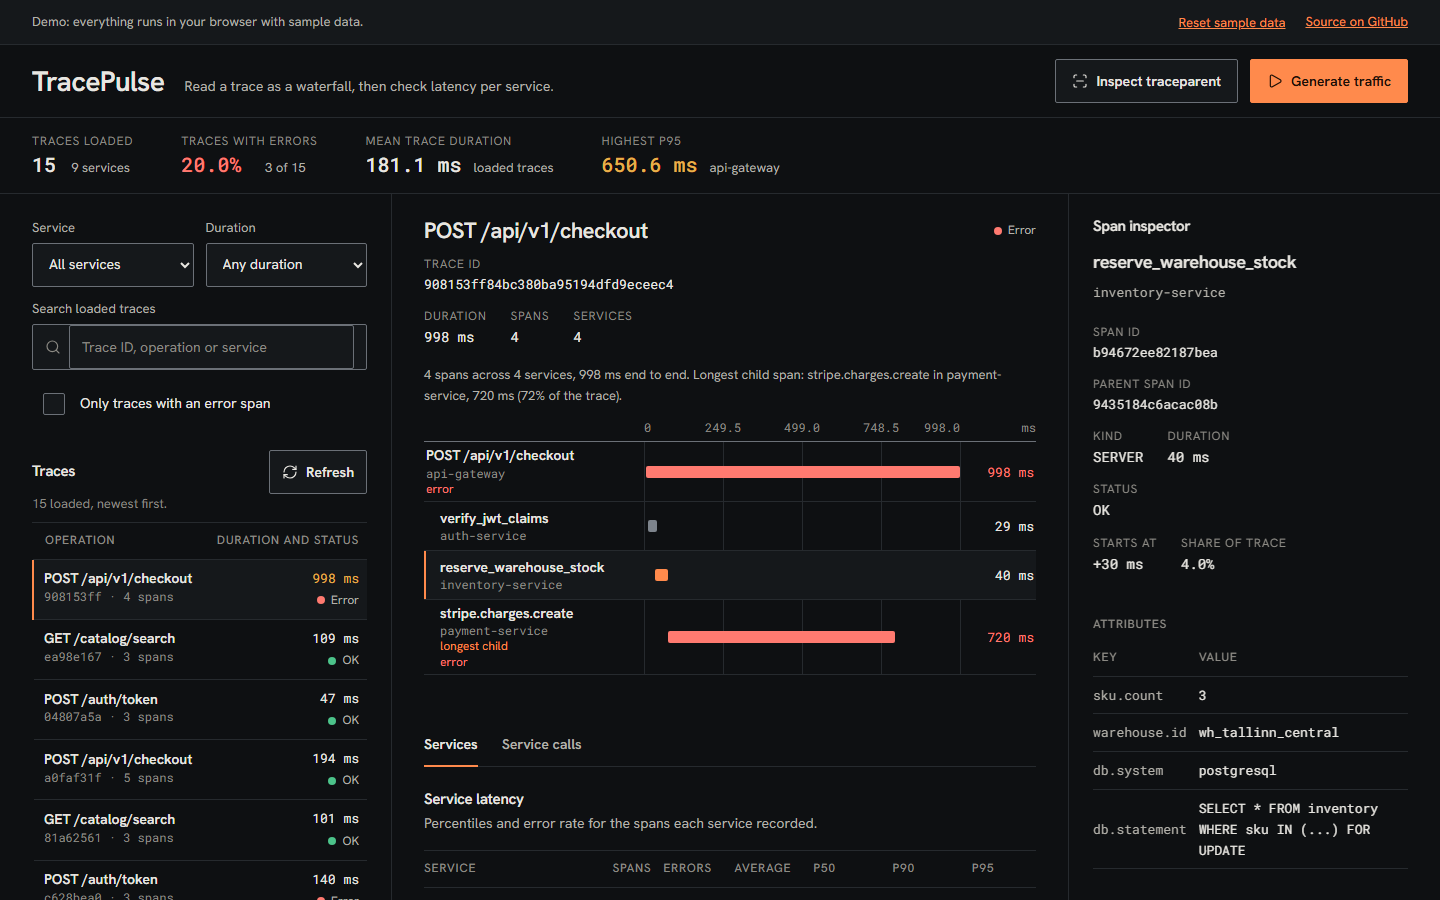
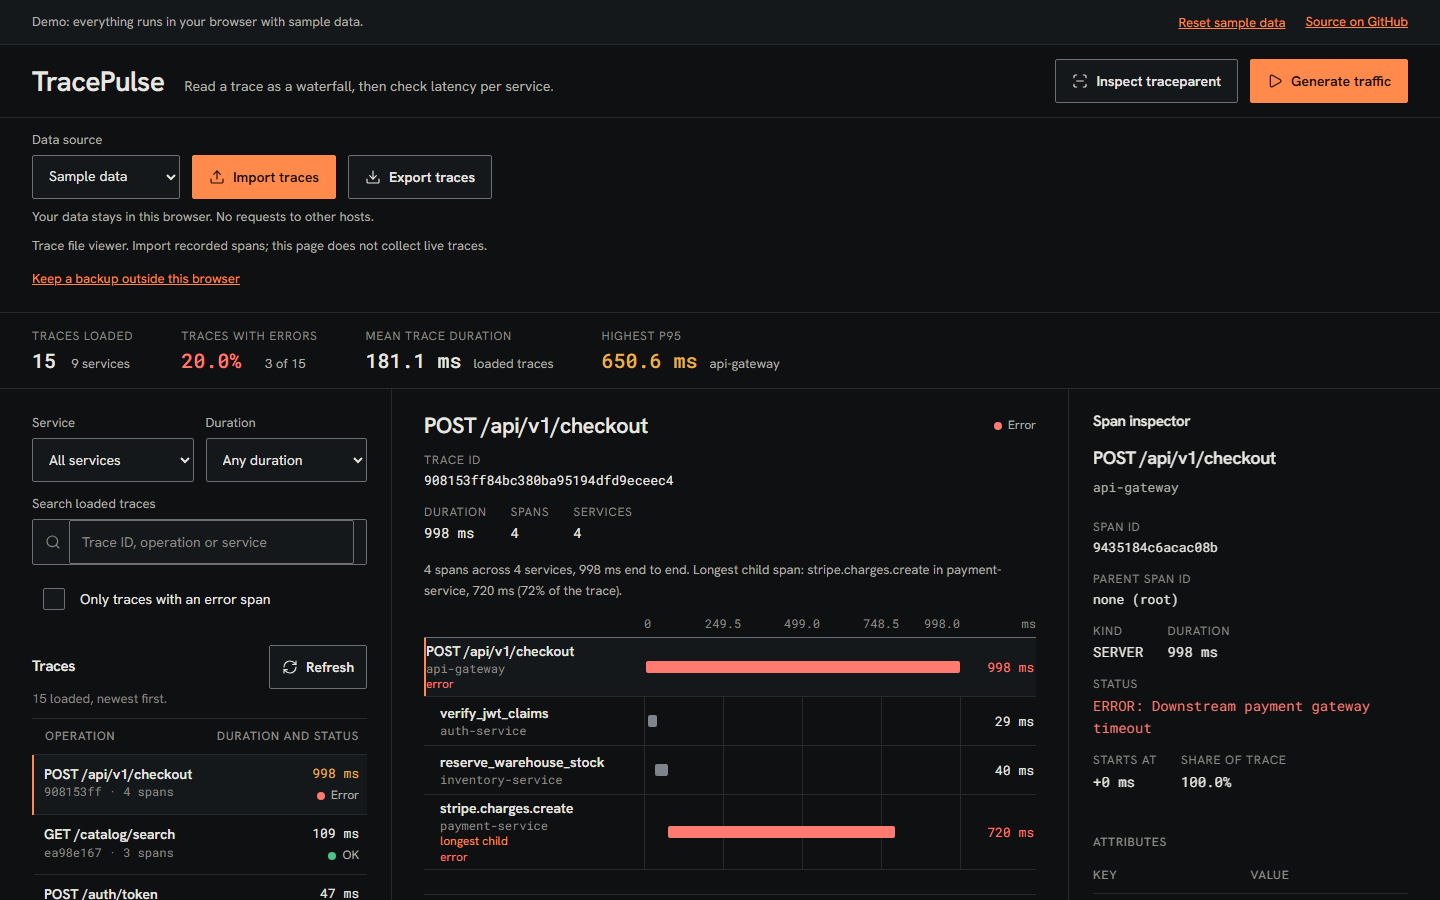
Explain local trace files and refresh the browser views

diff --git a/README.md b/README.md
@@ -8,7 +8,19 @@ TracePulse is a trace viewer. It ingests spans over a REST API, stores them in S
 
 **Live demo:** https://taan1el.github.io/tracepulse/
 
-The demo runs entirely in your browser: the same trace-building, percentile and dependency code the server uses runs against 15 generated sample traces (the same 15 every visit), so it works with no backend.
+The static app runs entirely in your browser. Choose Sample data for 15 generated traces, or Your workspace to read recorded traces from your own files. No account, API key or backend is needed.
+
+## Use it with your own data
+
+Import a Jaeger JSON export (`data[].spans`) or OpenTelemetry JSON (`resourceSpans[].scopeSpans[].spans`). One file can contain several traces. Missing parents remain visible as separate roots. An invalid file reports its name and the failing field before changing the workspace. Larger files parse in a worker.
+
+The waterfall, service latency percentiles and service calls use the imported spans. Slowest spans and a critical path estimate help inspect timing. The estimate follows the heaviest parent chain using exclusive time; it cannot establish causality between concurrent spans.
+
+Your workspace and selected mode stay in IndexedDB on this machine. Export traces as Jaeger JSON to keep a backup or move work to another browser. Export and import retain span attributes, events and status. Reset sample data affects only the sample mode. Clearing browser storage removes the workspace, so keep a backup outside the browser.
+
+Install the app through your browser, or use the install control when offered. After one complete online load, the app and self-hosted fonts work offline. The Pages build has a Content-Security-Policy that allows requests only to its own host; traces never upload and the app makes no requests to other hosts. The source link opens a separate site only when selected.
+
+This browser tool reads recorded trace files; it does not collect live telemetry or run a tracing server.
 
 ## Screenshot
 
@@ -219,9 +231,9 @@ Serves the built client and the API at **http://localhost:4000**. The SQLite fil
 - Storage is one SQLite file written by one process. Nothing is ever deleted, so the file only grows. Ingestion and query speed have not been measured.
 - Service metrics are computed by reading every stored span on each request, which is fine for small data sets and will slow down as the data grows. Percentiles are over all stored spans, not a time window, and no throughput figure is reported.
 - Ingesting a trace ID that already exists replaces that trace. Span IDs are expected to be unique across traces.
-- The longest-child marker compares durations of non-root spans. It is not a critical-path analysis.
+- The longest-child marker compares durations of non-root spans. The separate critical path estimate uses exclusive time and a parent chain; concurrent spans do not reveal a causal critical path.
 - Only the `traceparent` header is handled, not `tracestate`. Spans are not read from an OpenTelemetry exporter directly; they are posted in the JSON shape described above.
-- The Pages demo keeps its data in memory for the page's lifetime. A reload restores the same sample data.
+- The sample mode keeps generated data in memory and reloads its original samples. Your workspace is saved separately in IndexedDB. Local browser storage can be cleared or evicted; exported files are the backup.
 
 Decision records: [SQLite storage](docs/adr/001-native-sqlite-wal-and-relational-span-storage.md), [W3C context and span trees](docs/adr/002-w3c-tracecontext-propagation-and-dag-span-tree-reconstruction.md), [percentiles and service calls](docs/adr/003-latency-percentiles-and-service-topology-derivation.md).
 
